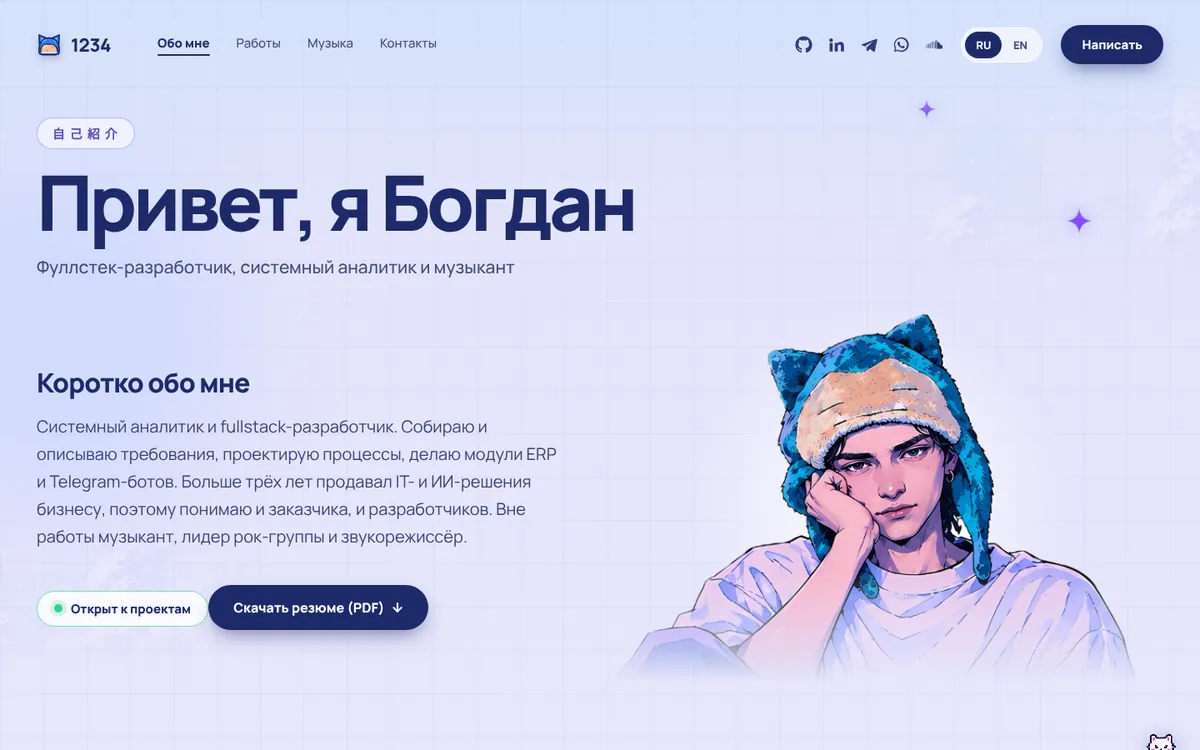
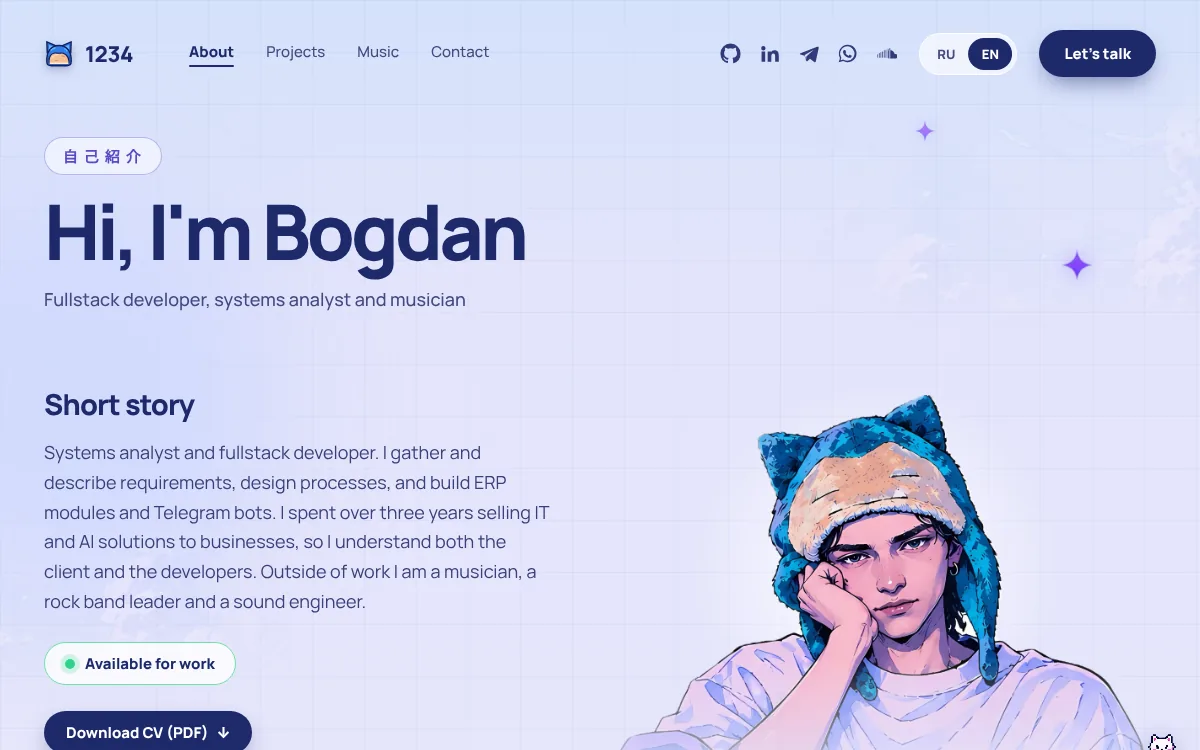
Заставка при каждом заходе, затухание Hero, красивая обложка портфолио, кнопка CV, котик болтает

diff --git a/tests/e2e/site.spec.ts b/tests/e2e/site.spec.ts
@@ -234,7 +234,7 @@ test.describe('заставка', () => {
     await page.goto('/')
     await expect(page.locator('#boot')).toBeVisible()
     await expect(page.locator('#boot')).toHaveCount(0, { timeout: 6000 })
-    expect(await page.evaluate(() => localStorage.getItem('boot-v1'))).toBe('1')
+    expect(await page.evaluate(() => sessionStorage.getItem('boot-v1'))).toBe('1')
     await page.reload()
     await expect(page.locator('#boot')).toBeHidden()
   })
@@ -247,7 +247,7 @@ test.describe('заставка', () => {
   })
 
   test('ссылка ?intro показывает заставку снова', async ({ page }) => {
-    await page.addInitScript(() => localStorage.setItem('boot-v1', '1'))
+    await page.addInitScript(() => sessionStorage.setItem('boot-v1', '1'))
     await page.goto('/?intro')
     await expect(page.locator('#boot')).toBeVisible()
   })
@@ -261,7 +261,7 @@ test.describe('заставка', () => {
   })
 
   test('переходы между страницами не показывают заставку', async ({ page }) => {
-    await page.addInitScript(() => localStorage.setItem('boot-v1', '1'))
+    await page.addInitScript(() => sessionStorage.setItem('boot-v1', '1'))
     await page.goto('/')
     await page.getByRole('navigation', { name: 'Main' }).getByRole('link', { name: 'Projects' }).click()
     await expect(page.locator('h1')).toHaveText('Projects')
@@ -289,7 +289,7 @@ test.describe('фон и язык', () => {
 
 test.describe('котик', () => {
   test.beforeEach(async ({ page }) => {
-    await page.addInitScript(() => localStorage.setItem('boot-v1', '1'))
+    await page.addInitScript(() => sessionStorage.setItem('boot-v1', '1'))
   })
 
   test('его можно перетащить, пока несут, он кричит, потом остаётся на месте', async ({ page }) => {
@@ -335,7 +335,7 @@ test.describe('котик', () => {
 test.describe('котик живёт сам', () => {
   test('идёт сам, не выходя за экран, и реагирует на клик рядом', async ({ page }) => {
     await page.addInitScript(() => {
-      localStorage.setItem('boot-v1', '1')
+      sessionStorage.setItem('boot-v1', '1')
       // ускоряем таймеры, чтобы не ждать десятки секунд
       const st = window.setTimeout
       window.setTimeout = ((fn: TimerHandler, ms?: number, ...a: unknown[]) =>
@@ -355,7 +355,7 @@ test.describe('котик живёт сам', () => {
 
 test.describe('котик на главной', () => {
   test('на главной живёт тот же котик: встаёт на место картинки и его можно унести', async ({ page }) => {
-    await page.addInitScript(() => localStorage.setItem('boot-v1', '1'))
+    await page.addInitScript(() => sessionStorage.setItem('boot-v1', '1'))
     await page.setViewportSize({ width: 1440, height: 800 })
     await page.goto('/')
     await expect(page.locator('.pcat.free')).toBeVisible()

diff --git a/src/components/PixelCat.vue b/src/components/PixelCat.vue
@@ -3,6 +3,7 @@ import { computed, nextTick, onBeforeUnmount, onMounted, ref, watch } from 'vue'
 import { useRoute } from 'vue-router'
 import { useLang } from '../composables/useLang'
 import { reducedMotion } from '../utils/pageScroll'
+import { usePlayer } from '../composables/usePlayer'
 import catUrl from '../assets/img/cat.png'
 
 // Пасхалка: котик на внутренних страницах. Сидит в своём месте, выглядывает с края,
@@ -41,6 +42,8 @@ let sleepTimer = 0
 let raf = 0
 let moveRaf = 0
 let wanderTimer = 0
+let chatTimer = 0
+const player = usePlayer()
 let lastReact = 0
 
 // Координаты хранятся обычными переменными и пишутся в style напрямую:
@@ -55,6 +58,8 @@ let pressed = false
 let moved = false
 
 const curious = ['cat_curious_1', 'cat_curious_2', 'cat_curious_3']
+const idle = ['cat_idle_1', 'cat_idle_2', 'cat_idle_3', 'cat_idle_4', 'cat_idle_5']
+const listening = ['cat_music_1', 'cat_music_2']
 const lines = ['cat_line_1', 'cat_line_2', 'cat_line_3', 'cat_line_4']
 const screams = ['cat_scream_1', 'cat_scream_2', 'cat_scream_3']
 const landings = ['cat_land_1', 'cat_land_2', 'cat_land_3']
@@ -147,6 +152,7 @@ function onWalkEnd(e: TransitionEvent) {
 }
 function wander() {
   window.clearTimeout(wanderTimer)
+  window.clearTimeout(chatTimer)
   wanderTimer = window.setTimeout(
     async () => {
       if (!dragging.value && !sleepy.value && !walking.value && !document.hidden && el.value) {
@@ -337,6 +343,20 @@ function onRoute(name: unknown) {
   void nextTick().then(adoptHero)
 }
 
+// Время от времени котик что-нибудь бормочет сам. Если играет музыка, иногда комментирует её.
+function chatter() {
+  window.clearTimeout(chatTimer)
+  chatTimer = window.setTimeout(
+    () => {
+      if (!dragging.value && !sleepy.value && !said.value && !document.hidden && el.value) {
+        sayFor(pick(player.playing && Math.random() < 0.6 ? listening : idle), 3600)
+      }
+      chatter()
+    },
+    22000 + Math.random() * 28000,
+  )
+}
+
 function onResize() {
   if (!free.value) return
   clamp()
@@ -349,6 +369,7 @@ onMounted(() => {
   window.addEventListener('pointerdown', onPageDown, { passive: true })
   rest()
   wander()
+  chatter()
   onRoute(route.name)
 })
 onBeforeUnmount(() => {

diff --git a/src/data/texts.ts b/src/data/texts.ts
@@ -129,6 +129,13 @@ export const texts: Record<'ru' | 'en', Texts> = {
     cat_line_3: 'にゃ',
     cat_line_4: '...',
     cat_hint: 'Погладить котика (можно перетащить)',
+    cat_idle_1: 'интересно, что там ниже?',
+    cat_idle_2: 'ты ещё тут?',
+    cat_idle_3: 'сижу, никого не трогаю',
+    cat_idle_4: 'мур-мур',
+    cat_idle_5: 'мне бы рыбки...',
+    cat_music_1: 'о, хороший трек',
+    cat_music_2: '♪ мур ♪',
     cat_curious_1: 'мяу?',
     cat_curious_2: 'что там?',
     cat_curious_3: 'о?',
@@ -265,6 +272,13 @@ export const texts: Record<'ru' | 'en', Texts> = {
     cat_line_3: 'にゃ',
     cat_line_4: '...',
     cat_hint: 'Pet the cat (or drag it)',
+    cat_idle_1: 'wonder what is further down?',
+    cat_idle_2: 'still here?',
+    cat_idle_3: 'just sitting, bothering no one',
+    cat_idle_4: 'purr purr',
+    cat_idle_5: 'could use some fish...',
+    cat_music_1: 'oh, nice track',
+    cat_music_2: '♪ mrrp ♪',
     cat_curious_1: 'mew?',
     cat_curious_2: "what's that?",
     cat_curious_3: 'oh?',

diff --git a/src/styles/main.css b/src/styles/main.css
@@ -344,3 +344,10 @@ h1 em{font-style:normal;color:var(--violet)}
 
 /* на главной вместо картинки в Hero живёт тот же котик, что и на остальных страницах */
 html.cat-adopted .cat{visibility:hidden}
+
+/* низ Hero плавно растворяется в цвет страницы, без резкого среза при скролле */
+.hero::after{content:"";position:absolute;left:0;right:0;bottom:-2px;height:30vh;z-index:9;pointer-events:none;
+ background:linear-gradient(to bottom,rgba(231,234,253,0) 0%,rgba(231,234,253,.22) 30%,rgba(231,234,253,.62) 62%,rgba(231,234,253,.92) 86%,#E7EAFD 100%)}
+
+/* нижний край персонажа растворяется: при прокрутке слой уезжает вверх и больше не виден его срез */
+.l-char img.main{-webkit-mask-image:linear-gradient(to bottom,#000 0,#000 78%,transparent 100%);mask-image:linear-gradient(to bottom,#000 0,#000 78%,transparent 100%)}

diff --git a/index.html b/index.html
@@ -67,7 +67,7 @@
     </style>
     <noscript><style>#boot{display:none}</style></noscript>
     <script>
-      // заставка только при первом визите (или по ссылке ?intro); без анимации при reduced-motion
+      // заставка один раз за сессию, то есть при каждом новом заходе на сайт (или по ссылке ?intro); без анимации при reduced-motion
       (function () {
         var r = document.documentElement
         window.__bootT = performance.now()
@@ -77,7 +77,7 @@
           if (t) document.head.appendChild(t.content.cloneNode(true))
         }
         try {
-          var seen = localStorage.getItem('boot-v1')
+          var seen = sessionStorage.getItem('boot-v1')
           var forced = /[?&]intro\b/.test(location.search)
           var calm = matchMedia('(prefers-reduced-motion: reduce)').matches
           if ((seen && !forced) || calm) r.classList.add('no-boot')

diff --git a/tests/unit/boot.test.ts b/tests/unit/boot.test.ts
@@ -4,6 +4,7 @@ import { BOOT_KEY, finishBoot } from '../../src/boot'
 describe('заставка', () => {
   beforeEach(() => {
     localStorage.clear()
+    sessionStorage.clear()
     document.documentElement.className = ''
     document.body.innerHTML = '<div id="boot"></div>'
     vi.useFakeTimers()
@@ -22,7 +23,7 @@ describe('заставка', () => {
     await vi.advanceTimersByTimeAsync(1700)
     expect(document.getElementById('boot')?.classList.contains('out')).toBe(true)
     expect(document.documentElement.classList.contains('booting')).toBe(false)
-    expect(localStorage.getItem(BOOT_KEY)).toBe('1')
+    expect(sessionStorage.getItem(BOOT_KEY)).toBe('1')
     await vi.advanceTimersByTimeAsync(1200)
     expect(document.getElementById('boot')).toBeNull()
   })

diff --git a/src/boot.ts b/src/boot.ts
@@ -27,9 +27,9 @@ export function finishBoot() {
     if (closed) return
     closed = true
     try {
-      localStorage.setItem(BOOT_KEY, '1')
+      sessionStorage.setItem(BOOT_KEY, '1')
     } catch {
-      /* без localStorage заставка просто покажется снова */
+      /* без sessionStorage заставка просто покажется снова */
     }
     el.classList.add('out')
     root.classList.remove('booting')

diff --git a/src/styles/pages.css b/src/styles/pages.css
@@ -2555,3 +2555,15 @@ nav > a[aria-current]::after {
 
 
 
+
+/* кнопка резюме: обычного размера и отдельной строкой под «Открыт к работе» */
+.intro-text .cv-btn {
+  display: flex;
+  width: fit-content;
+  margin-top: 26px;
+  padding: 11px 22px;
+  font-size: 15px;
+}
+.intro-text .avail {
+  margin-top: 4px;
+}

diff --git a/README.md b/README.md
@@ -27,7 +27,7 @@
 
 Что сделано по дизайну и анимации:
 
-- **Заставка** («цифровой рисунок»): сетка, город и шапочка рисуются линиями, затем проявляется логотип и шторка уходит вверх. Показывается один раз на устройство (флаг `boot-v1` в localStorage), заканчивается сразу, как готова главная картинка (минимум 1,5 с, максимум 2,6 с). Пропускается кликом или любой клавишей. При `prefers-reduced-motion` её нет. Показать снова: открыть `/?intro`. Разметка и стили лежат прямо в `index.html`, логика выхода в `src/boot.ts`.
+- **Заставка** («цифровой рисунок»): сетка, город и шапочка рисуются линиями, затем проявляется логотип и шторка уходит вверх. Показывается один раз за сессию (новый заход — снова заставка; ?intro показывает принудительно) (флаг `boot-v1` в sessionStorage), заканчивается сразу, как готова главная картинка (минимум 1,5 с, максимум 2,6 с). Пропускается кликом или любой клавишей. При `prefers-reduced-motion` её нет. Показать снова: открыть `/?intro`. Разметка и стили лежат прямо в `index.html`, логика выхода в `src/boot.ts`.
 - **Единый мир**: компонент `WorldBackdrop` (сетка, световые пятна, облака, силуэт города) стоит на всех страницах. Музыка получает свой оттенок (`tone="music"`).
 - **Переходы между страницами**: светлая шторка с сеткой плюс плавная смена страницы. Скролл наверх происходит, когда новая страница уже встала.
 - **Появление при прокрутке**: директива `v-reveal` (opacity и translate), каскад через `--i`, 3D-наклон `v-tilt`, лёгкий параллакс облаков через одну переменную `--sy`.
